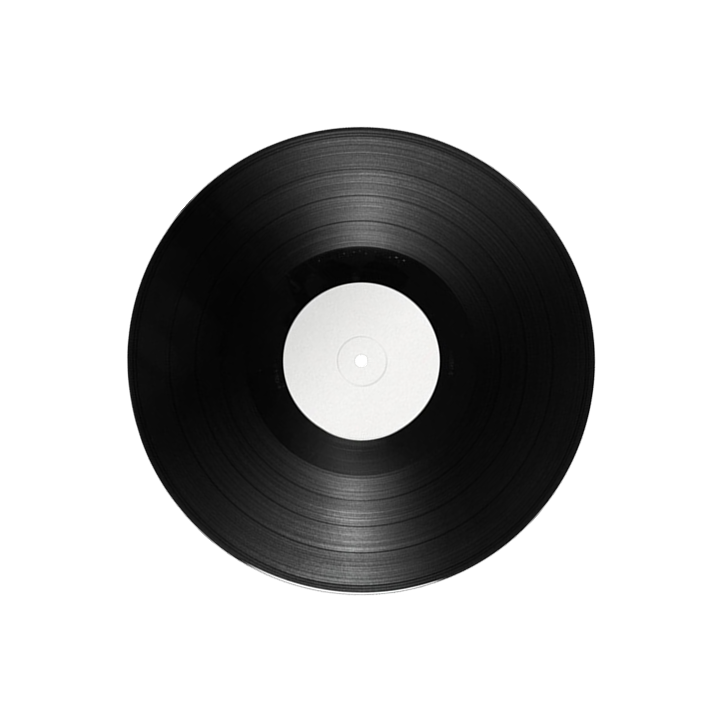
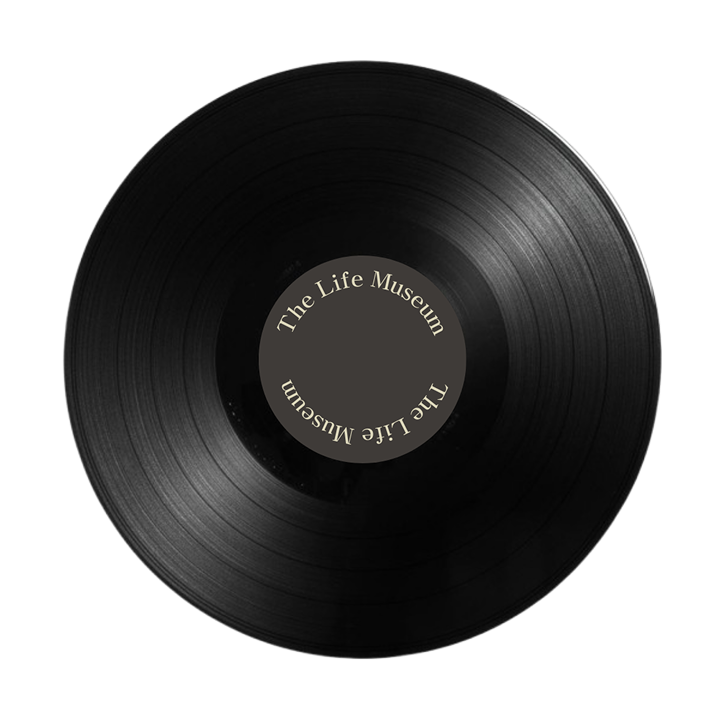
#2 : design lp-image

diff --git a/app/view/[identifier]/records/components/LifeRecordDesktop.jsx b/app/view/[identifier]/records/components/LifeRecordDesktop.jsx
@@ -340,7 +340,7 @@ export default function LifeRecordDesktop({
   };
 
   const isMobile = useIsMobile();
-  const DESKTOP = { START: 0, SWEEP: 120, RADIUS: 280, ANCHOR: 0 };
+  const DESKTOP = { START: 0, SWEEP: 120, RADIUS: 200, ANCHOR: 0 };
   const MOBILE = { START: 110, SWEEP: 180, RADIUS: 140, ANCHOR: 110 };
   const CFG = isMobile ? MOBILE : DESKTOP;
   const RADIUS = CFG.RADIUS;
@@ -348,7 +348,7 @@ export default function LifeRecordDesktop({
 
   const angleForIndex = (i) => {
     // 타임라인 항목 수와 관계없이 고정된 각도 간격 사용하기
-    const FIXED_STEP = 15;
+    const FIXED_STEP = 25;
     return CFG.START + FIXED_STEP * i;
   };
 
@@ -356,29 +356,24 @@ export default function LifeRecordDesktop({
     let diff = Math.abs(norm360(angle) - norm360(anchor));
     if (diff > 180) diff = 360 - diff;
 
-    const normalizedDiff = Math.min(diff / 60, 1);
+    const normalizedDiff = Math.min(diff / 90, 1);
     const opacity = 1 - normalizedDiff * normalizedDiff * 1;
     return Math.max(opacity, 0);
   };
 
-  // activeItem.id가 변경될 때 ref 업데이트
   useEffect(() => {
     if (activeItem?.id) {
       activeItemIdRef.current = activeItem.id;
     }
   }, [activeItem?.id]);
 
-  // timeline이 변경될 때 현재 활성화된 항목의 ID를 유지
   useEffect(() => {
-    // 외부에서 명시적으로 이동을 요청한 경우가 아니고, 추적 중인 항목 ID가 있는 경우
     if (!isNavigatingRef.current && activeItemIdRef.current) {
       const newIdx = timeline.findIndex(
         (item) => item.id === activeItemIdRef.current,
       );
       if (newIdx !== -1 && newIdx !== activeIdx) {
-        // 같은 ID를 가진 항목의 새 인덱스로 이동
         setActiveIdx(newIdx);
-        // 회전도 함께 업데이트
         const targetAngle = angleForIndex(newIdx);
         setRotation(targetAngle - getAnchor());
       }
@@ -632,7 +627,10 @@ export default function LifeRecordDesktop({
 
       <div className="lr-grid">
         <section className="lr-left">
-          <h1 className="lr-title">Life- Records</h1>
+          <h1 className="lr-title">
+            Life- <br />
+            Records
+          </h1>
           <p className="lr-sub">
             <b>{data.record?.userName || "사용자"}</b>님의 라이프 레코드입니다.
             <br />
@@ -661,18 +659,14 @@ export default function LifeRecordDesktop({
                     }
                     type="file"
                     accept="image/png,image/jpeg,image/jpg,video/mp4,video/webm"
-                    multiple={activeItem.kind !== "main"} // main이 아닌 경우에만 multiple 허용
+                    multiple={activeItem.kind !== "main"}
                     style={{ display: "none" }}
                     onChange={(e) => {
                       const files = Array.from(e.target.files || []);
                       if (files.length > 0 && onImageChange) {
                         if (activeItem.kind === "main") {
-                          // main은 단일 이미지만
                           onImageChange("main", null, files[0]);
                         } else {
-                          // item은 최대 5개까지
-                          // targetImageSlotIndex가 설정되어 있으면 해당 슬롯에 교체
-                          // 여러 소스에서 값을 확인 (data attribute > ref > state)
                           const dataSlot =
                             e.target.getAttribute("data-target-slot");
                           const slotIdx =
@@ -724,7 +718,6 @@ export default function LifeRecordDesktop({
                               files[0],
                               slotIdx,
                             );
-                            // 리셋은 파일 처리 완료 후에만
                             setTimeout(() => {
                               setTargetImageSlotIndex(null);
                               targetImageSlotIndexRef.current = null;
@@ -795,7 +788,6 @@ export default function LifeRecordDesktop({
                 ) : (
                   <>
                     {activeItem.kind === "main" ? (
-                      // Main 항목: 단일 이미지만 표시
                       <img
                         src={activeItem.cover || "/images/records/No image.png"}
                         alt="cover"
@@ -805,7 +797,6 @@ export default function LifeRecordDesktop({
                         }}
                       />
                     ) : isEditing ? (
-                      // Edit 모드: 최대 5개 슬롯 모두 표시 (빈 슬롯은 이미지 추가 버튼)
                       <div
                         className="lr-image-slider"
                         style={{

diff --git a/app/view/[identifier]/records/styles/cardPage.css b/app/view/[identifier]/records/styles/cardPage.css
@@ -77,11 +77,10 @@ body,
 }
 
 .lr-card {
-  background: var(--card);
+  background: #f2f2f2;
   color: var(--ink);
   border-radius: 14px;
   overflow: hidden;
-  border: 1px solid #ddd;
   padding: 1.5rem;
   height: 100%;
 }
@@ -345,7 +344,7 @@ body,
 .lp-wrap {
   position: absolute;
   top: 50%;
-  left: -120%;
+  left: -70%;
   transform: translateY(-50%);
   z-index: 1;
   cursor: pointer;
@@ -357,7 +356,7 @@ body,
   left: 50%;
   width: 0;
   height: 0;
-  transform: translate(-50%, -50%);
+  transform: translate(-50%, -50%) translateX(-60px);
 }
 
 .year-item {
@@ -394,6 +393,7 @@ body,
 
 .lp-disc {
   transition: transform 160ms ease-out;
+  width: 70%;
   display: block;
   will-change: transform;
   pointer-events: none;

diff --git a/app/edit/[username]/records/page.js b/app/edit/[username]/records/page.js
@@ -346,10 +346,8 @@ export default function EditRecords() {
         }
       }
 
-      // 새 items 생성 및 임시 ID를 실제 ID로 교체
       const updatedItems = [...data.items];
       for (const item of newItems) {
-        // images 배열에서 null, undefined, 빈 문자열 제거 (서버 형식에 맞춤)
         let images = [];
         if (item.images && Array.isArray(item.images)) {
           images = item.images
